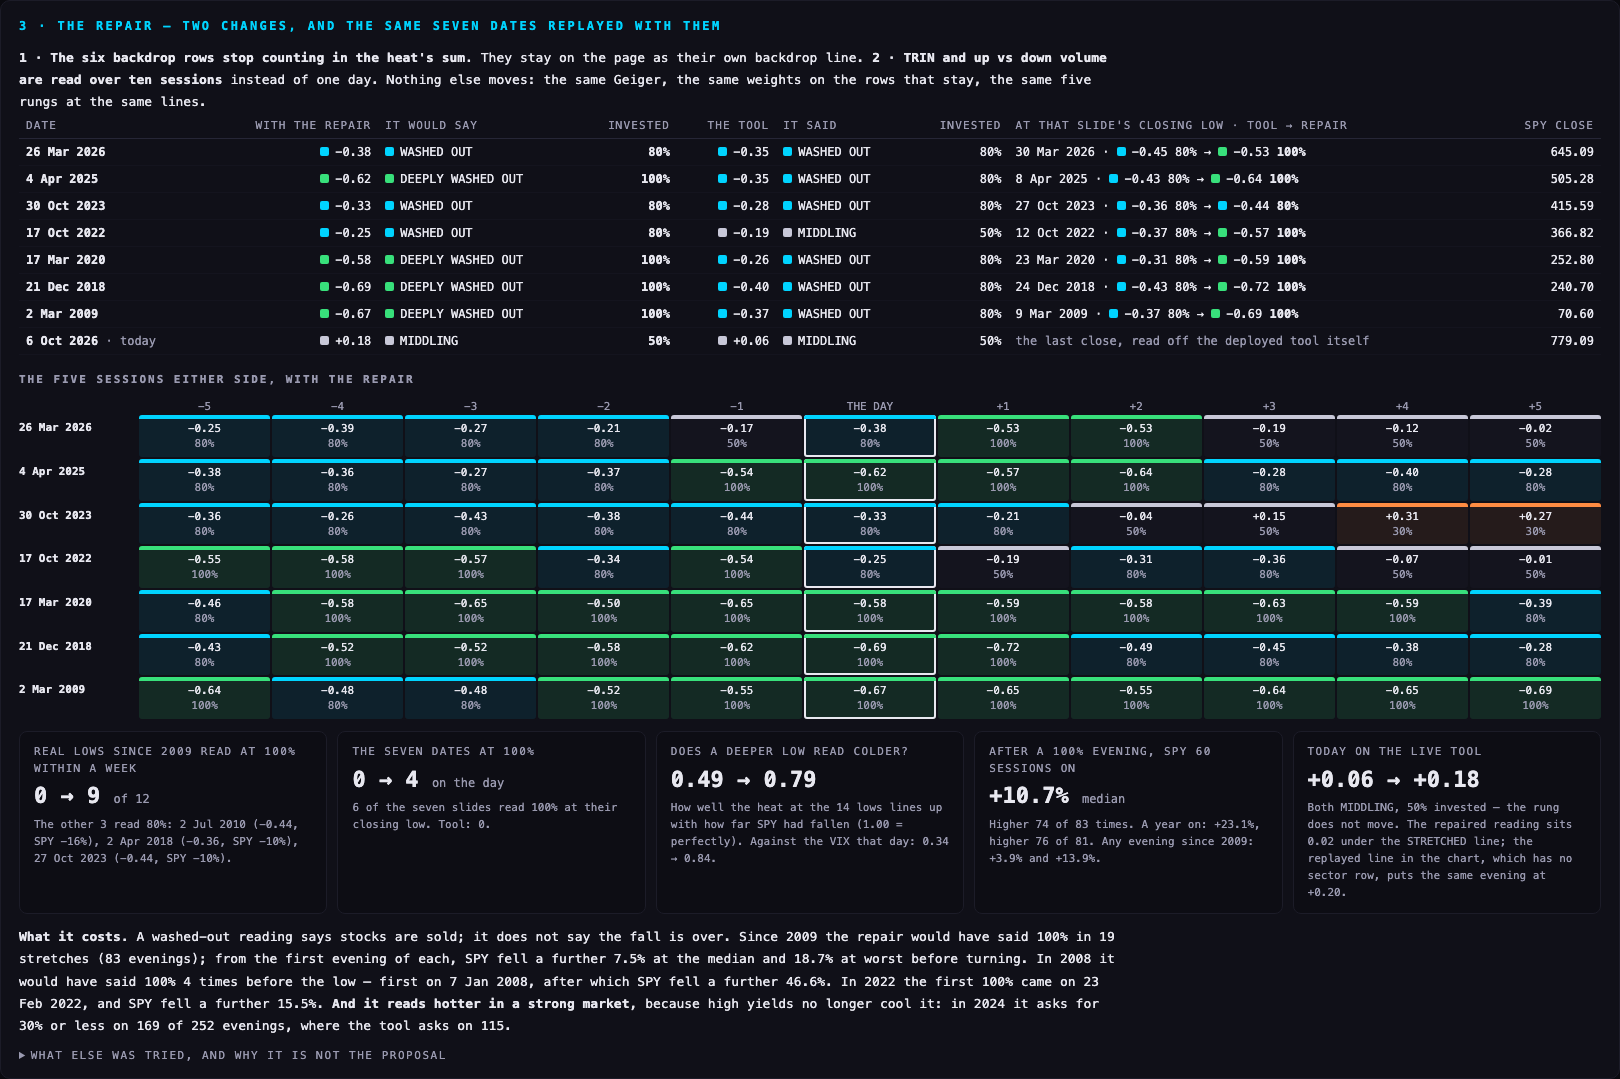
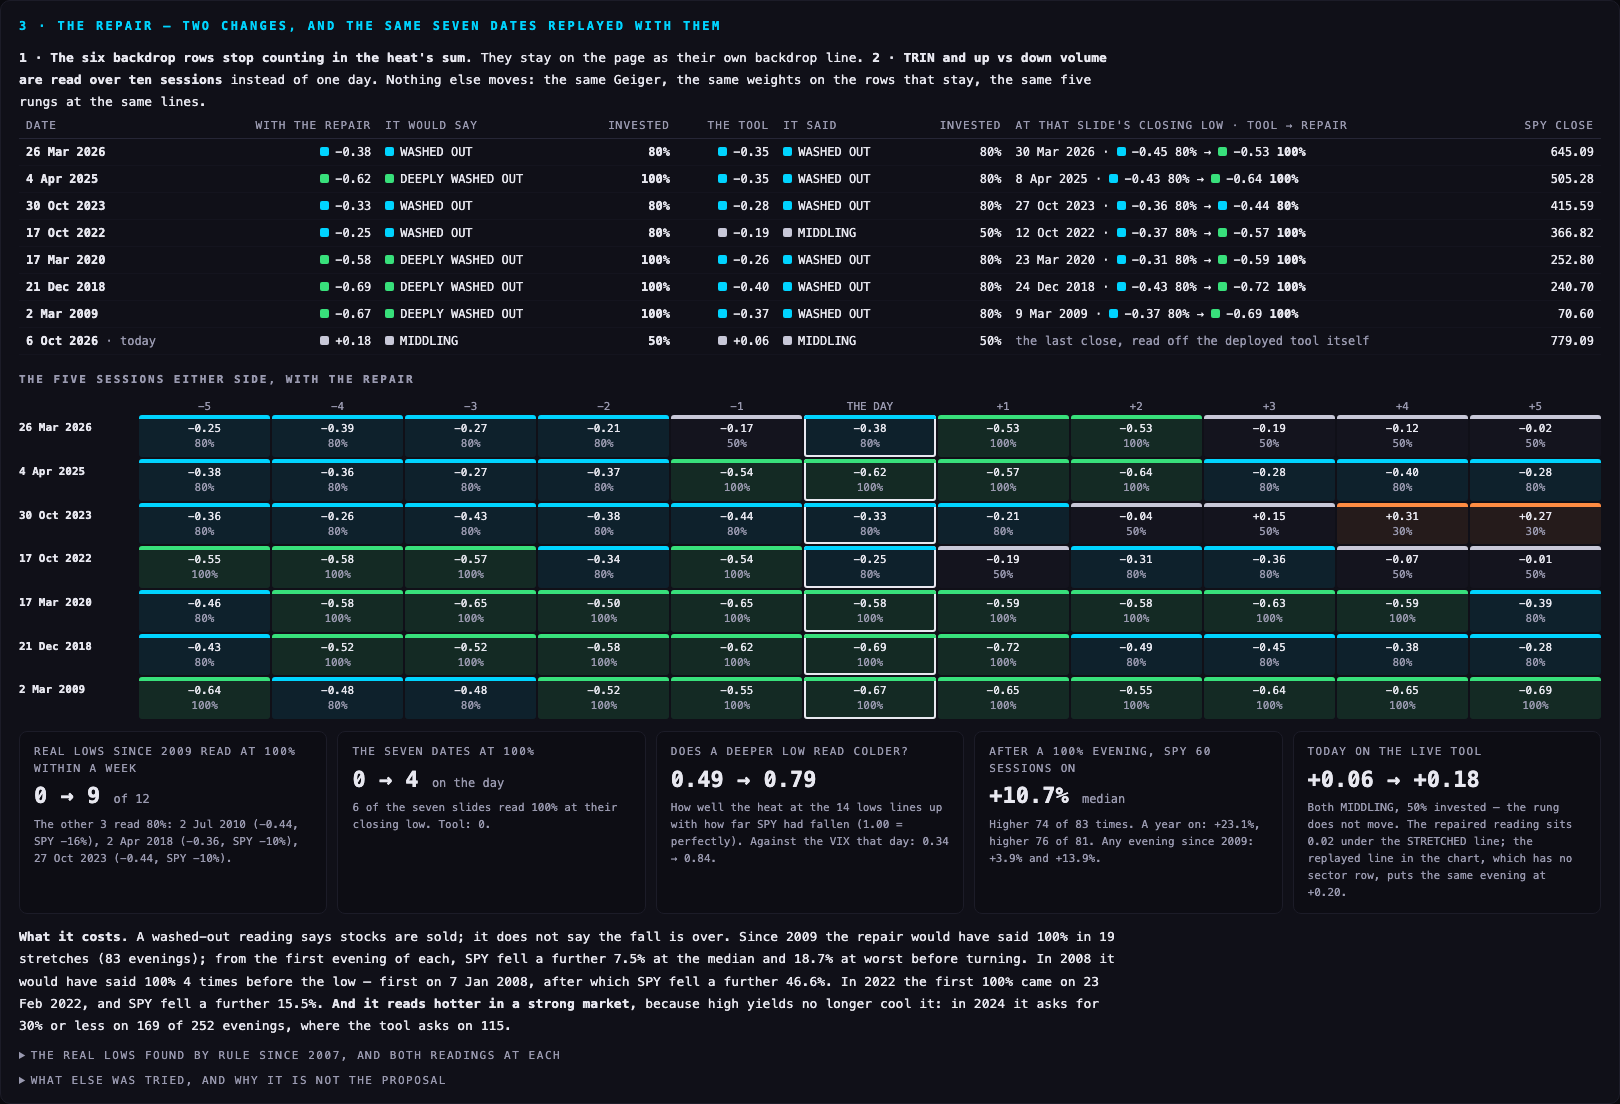
HM1 4 · the fourteen lows found by rule since 2007 listed on the page with both readings at each (folded, under the repair), so the '9 of 12 since 2009' can be checked by eye; pictures retaken.

diff --git a/study/hm1/HM1.html b/study/hm1/HM1.html
@@ -64,6 +64,7 @@ ol.dec{margin:6px 0 0;padding-left:20px;line-height:1.7;font-size:13px;max-width
 <div class="wrap" id="fixstrips"></div>
 <div class="tiles" id="tiles"></div>
 <p class="say" id="fixcost"></p>
+<details><summary>the real lows found by rule since 2007, and both readings at each</summary><div class="wrap" id="lows"></div></details>
 <details><summary>what else was tried, and why it is not the proposal</summary><div class="wrap" id="tried"></div></details>
 </div>
 
@@ -163,6 +164,8 @@ const sbar=(x,scale=1)=>{ const w=Math.min(50,Math.abs(x)/scale*50); return '<sp
     tile('today on the live tool',L?f2(L.heat)+' → '+f2(L.fix.heat):f2(T.base.heat)+' → '+f2(T.fix.heat),L?(sameRung?'Both '+WORD[L.rung.pct]+', '+L.fix.rung.pct+'% invested — the rung does not move. The repaired reading sits '+Math.abs(0.2-L.fix.heat).toFixed(2)+' under the STRETCHED line; the replayed line in the chart, which has no sector row, puts the same evening at '+f2(T.fix.heat)+'.':'The rung moves from '+L.rung.pct+'% to '+L.fix.rung.pct+'% invested.'):'');
   const y08=H.history2007.fix.at100.filter(e=>e.from<'2009-01-01'), y22=H.history.fix.at100.filter(e=>e.from>='2022-01-01'&&e.from<'2023-01-01'), yb=H.byYear;
   el('fixcost').innerHTML='<b>What it costs.</b> A washed-out reading says stocks are sold; it does not say the fall is over. Since 2009 the repair would have said 100% in '+F.episodes100+' stretches ('+F.sessions100+' evenings); from the first evening of each, SPY fell a further '+ab(F.medianFurtherFall)+' at the median and '+ab(F.worstFurtherFall)+' at worst before turning. In 2008 it would have said 100% '+y08.length+' times before the low — first on '+dm(y08[0].from)+', after which SPY fell a further '+ab(y08[0].furtherFall)+'. In 2022 the first 100% came on '+dm(y22[0].from)+', and SPY fell a further '+ab(y22[0].furtherFall)+'. <b>And it reads hotter in a strong market</b>, because high yields no longer cool it: in 2024 it asks for 30% or less on '+(yb['2024'].fix[30]+yb['2024'].fix[15])+' of '+yb['2024'].n+' evenings, where the tool asks on '+(yb['2024'].base[30]+yb['2024'].base[15])+'.';
+  el('lows').innerHTML='<table><tr><th>THE LOW</th><th class="n">SPY CLOSE</th><th class="n">UNDER ITS HIGH</th><th class="n">VIX</th><th class="n">THE TOOL THAT EVENING</th><th class="n">ITS COLDEST WITHIN A WEEK</th><th class="n">WITH THE REPAIR</th><th class="n">ITS COLDEST WITHIN A WEEK</th><th class="n">SPY 60 SESSIONS ON</th><th class="n">A YEAR ON</th></tr>'+
+    H.lows.slice().reverse().map(l=>'<tr><td class="w"><b>'+dm(l.date)+'</b></td><td class="n">'+l.spy.toFixed(2)+'</td><td class="n">'+pc(l.fromHigh)+'</td><td class="n">'+(l.vix==null?'—':l.vix.toFixed(1))+'</td><td class="n">'+rung(l.base.heat,l.base.pct)+' '+l.base.pct+'%</td><td class="n">'+rung(l.base.min5,l.base.min5pct)+' '+l.base.min5pct+'%</td><td class="n">'+rung(l.fix.heat,l.fix.pct)+' '+l.fix.pct+'%</td><td class="n">'+rung(l.fix.min5,l.fix.min5pct)+' <b>'+l.fix.min5pct+'%</b></td><td class="n">'+pc(l.f60)+'</td><td class="n">'+pc(l.f250)+'</td></tr>').join('')+'</table>';
   const WHY={base:'what is live today'+(L?' (the live page, which has the sector row, reads '+f2(L.heat)+', '+L.rung.pct+'%)':''),fix:'the proposal'+(L?' (on the live page\'s own rows it reads '+f2(L.fix.heat)+', '+L.fix.rung.pct+'%)':''),dropBackdrop:'reads the lows as well, but the rung changes '+SC.dropBackdrop.rungChangesAYear.toFixed(0)+' times a year: with the backdrop out, one day\'s tape counts for more',ten:'on its own it changes nothing at the lows',fixNoGaps:'moves today to '+f2(SC.fixNoGaps.today)+', 30% — the gap rows are what read today\'s narrow market',fixMom:'slower lows read worse (17 Oct 2022 falls to 50%) and the lows line up less well with depth',mom:'no help at the lows',flipRates:'right in 2009 and 2020 for the wrong reason; wrong in 2022 and 2023, when rising yields were the cause of the fall',defRelative:'a fair repair of one row, but it moves the heat by 0.02',baseSectors:'a check, not a repair: the sector row has no past, this stands in for it',baseSkew:'a check: SKEW has weight 0.25 but rarely votes, because its number arrives a day late',fixSectors:'a check: the repair with a sector row standing in'};
   el('tried').innerHTML='<table><tr><th>TRIED</th><th class="n">SEVEN DATES AT 100%</th><th class="n">LOWS SINCE 2009 AT 100%</th><th class="n">EVENINGS AT 100%</th><th class="n">TODAY, REPLAYED<br>WITHOUT THE SECTOR ROW</th><th class="n">RUNG CHANGES A YEAR</th><th class="n">LINES UP WITH DEPTH</th><th>VERDICT</th></tr>'+
     Object.entries(SC).map(([k,c])=>'<tr><td>'+esc(c.label)+'</td><td class="n">'+c.sevenOnTheDay100+'</td><td class="n">'+c.lows100+' of '+c.lowsOf+'</td><td class="n">'+c.sessions100+'</td><td class="n">'+rung(c.today,c.todayPct)+' '+c.todayPct+'%</td><td class="n">'+c.rungChangesAYear.toFixed(0)+'</td><td class="n">'+c.ranksWithDepth.toFixed(2)+'</td><td class="dim">'+esc(WHY[k]||'')+'</td></tr>').join('')+'</table>';
